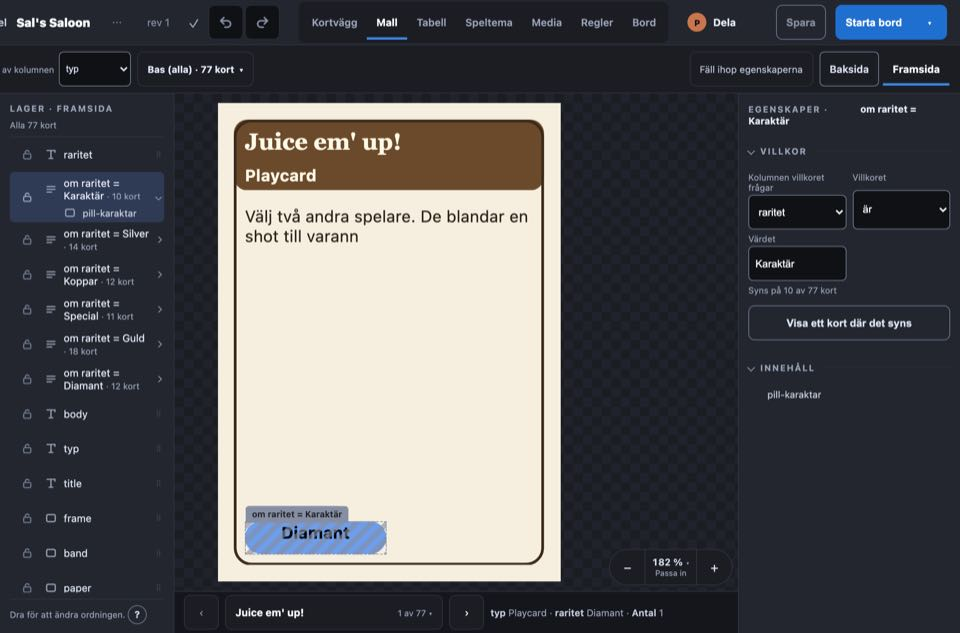
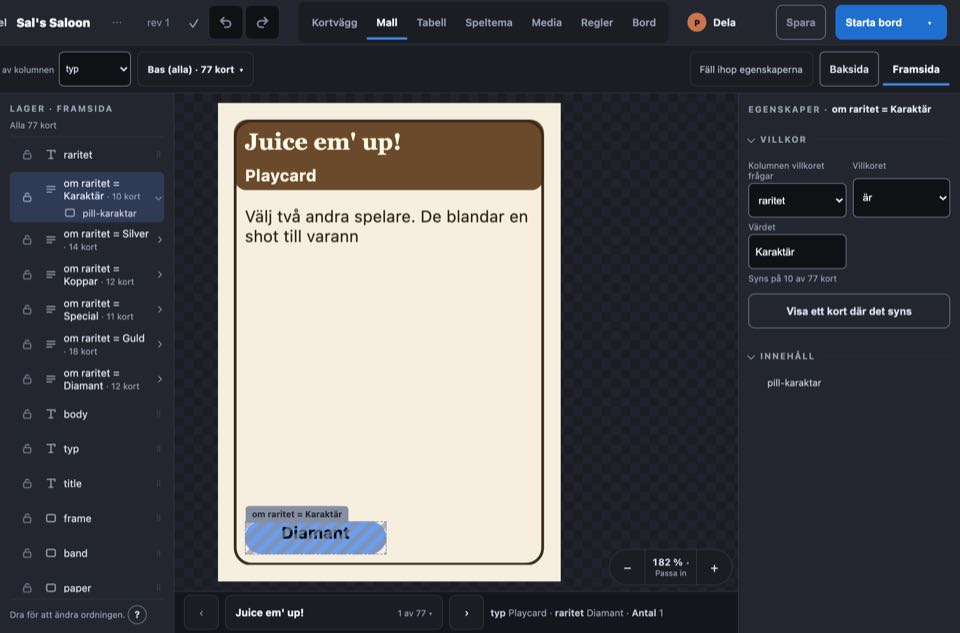
Prototyp #699: egenskapsrubriken utan glapp, bilderna tagna om

Changed region(s): [[0.7812, 0.1801, 1.0, 0.6303], [0.875, 0.1501, 0.9688, 0.1801]]

diff --git a/docs/ux-audits/2026-10-07-lagerraden/prototyper/matning/page.js b/docs/ux-audits/2026-10-07-lagerraden/prototyper/matning/page.js
@@ -61,8 +61,8 @@
     /* The canvas tab and the properties heading say the layer's one name. */
     html[data-p699] .byd-condition-tab[data-p699-name] { font-size: 0; }
     html[data-p699] .byd-condition-tab[data-p699-name]::after { content: attr(data-p699-name); font-size: 11px; }
-    html[data-p699] .byd-canvas-props > h2[data-p699-name] { font-size: 0; }
-    html[data-p699] .byd-canvas-props > h2[data-p699-name]::before { content: attr(data-p699-head) ' · '; font-size: 11px; }
+    html[data-p699] .byd-canvas-props > h2[data-p699-name] { font-size: 0; letter-spacing: 0; }
+    html[data-p699] .byd-canvas-props > h2[data-p699-name]::before { content: attr(data-p699-head) ' · '; font-size: 11px; letter-spacing: 1.5px; }
     html[data-p699] .byd-canvas-props > h2[data-p699-name]::after { content: attr(data-p699-name); font-size: 12px; text-transform: none; letter-spacing: 0; color: #e6ecfa; }
     /* The group list in words. */
     html[data-p699] .byd-canvas-rules li[data-p699-words] { font-size: 0; }
